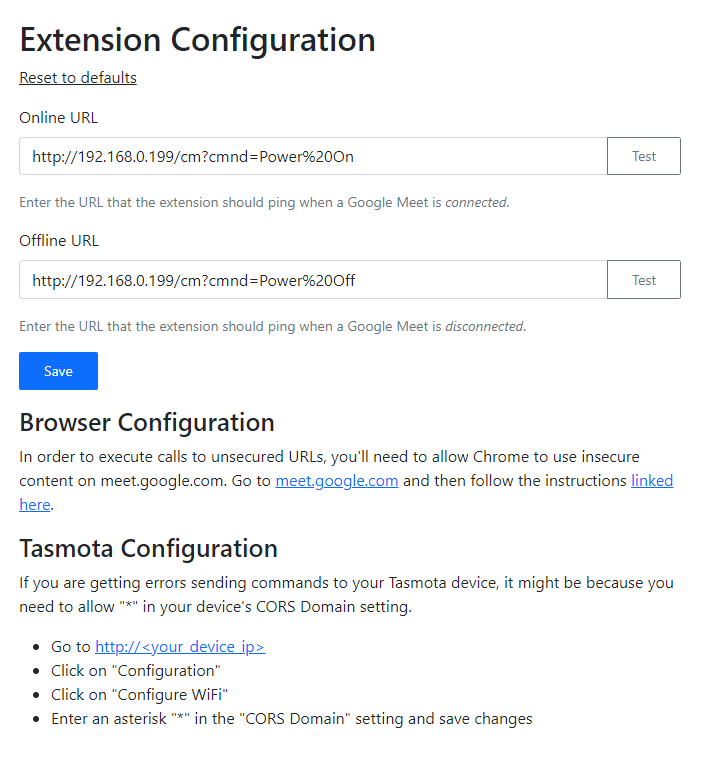
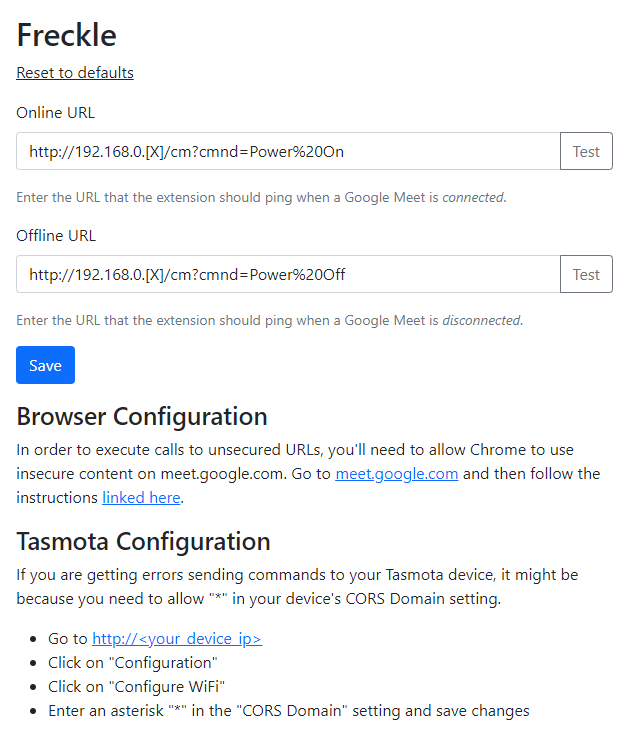
More thorough renaming complete, closes #7.

diff --git a/configuration/options.html b/configuration/options.html
@@ -3,15 +3,15 @@
   <head>
     <meta charset="utf-8">
     <meta name="viewport" content="width=device-width, initial-scale=1">
-    <link href="bootstrap.min.css" rel="stylesheet" integrity="sha384-eOJMYsd53ii+scO/bJGFsiCZc+5NDVN2yr8+0RDqr0Ql0h+rP48ckxlpbzKgwra6" crossorigin="anonymous">
+    <link href="bootstrap.min.css" rel="stylesheet">
     <link href="options.css" rel="stylesheet">
     <link rel="stylesheet" href="animate.min.css">
     <script src="font-awesome.js" crossorigin="anonymous"></script>
-    <title>Google Meet Tasmota Options</title>
+    <title>Freckle</title>
   </head>
   <body>
-    <h1>Extension Configuration</h1>
-    <p><a href="#" class="text-reset" id="reset-options">Reset to defaults</a></p>
+    <h1>Freckle</h1>
+    <p><a href="#" class="text-reset no-tab" id="reset-options">Reset to defaults</a></p>
     
     <!-- Options Form -->
     <div class="mb-3">
@@ -36,6 +36,7 @@
     </form>
     </div>
 
+    <!-- Configuration Notes -->
     <h3>Browser Configuration</h3>
     <p>In order to execute calls to unsecured URLs, you'll need to allow Chrome to use insecure content on meet.google.com. Go to <a href="https://meet.google.com">meet.google.com</a> and then follow the instructions <a href="https://stackoverflow.com/questions/18321032/how-to-get-chrome-to-allow-mixed-content">linked here</a>.</p>
 
@@ -61,7 +62,7 @@
     </div>
 
     <!-- Scripts -->
-    <script src="bootstrap.bundle.min.js" integrity="sha384-JEW9xMcG8R+pH31jmWH6WWP0WintQrMb4s7ZOdauHnUtxwoG2vI5DkLtS3qm9Ekf" crossorigin="anonymous"></script>
+    <script src="bootstrap.bundle.min.js"></script>
     <script src="options.js"></script>
   </body>
 </html>

diff --git a/configuration/options.js b/configuration/options.js
@@ -13,7 +13,7 @@
     for (var i = 0; i < links.length; i++) {
       (function () {
           var ln = links[i];
-          if(ln.href == "" || ln.href == "#") {
+          if(ln.classList.contains("no-tab")) {
             return;
           }
           var location = ln.href;

diff --git a/configuration/options.css b/configuration/options.css
@@ -3,15 +3,3 @@ body {
     width:100%;
     padding:20px;
 }
-
-.btn {
-    margin-right: 0.5rem !important
-}
-
-.btn {
-    font-size: 0.875rem;
-    line-height: 1;
-    font-weight: 400;
-    padding: .7rem 1.5rem;
-    border-radius: 0.1275rem
-}

diff --git a/README.md b/README.md
@@ -1,4 +1,6 @@
-# Tasmota Integration for Google Meet
+# Freckle
+
+Automatic Do-Not-Disturb integration for Google Meet with SMART Wifi bulbs and devices running Tasmota.
 
 ## About
 
@@ -6,8 +8,7 @@ This open source Google Chrome extension was created to automatically turn on a 
 
 [More About Tasmota](https://tasmota.github.io/docs/About/)
 
-The extension works by inspecting pages loaded on [meet.google.com](https://meet.google.com) to detect the presence of a "Leave call" button. When the presence of this button is detected, it fires an "online" event which is used to issue a request to an HTTP endpoint. When this element leaves the dom, it fires an "offline" event and hits another HTTP endpoint. These endpoints are fully configurable
-and could work with any device that has an HTTP API on your local network.
+The extension works by inspecting pages loaded on [meet.google.com](https://meet.google.com) to detect the presence of a "Leave call" button. When the presence of this button is detected, it fires an "online" event which is used to issue a request to an HTTP endpoint. When this element leaves the dom, it fires an "offline" event and hits another HTTP endpoint. These endpoints are fully configurable and could work with any device that has an HTTP API on your local network.
 
 ## Configuration Options
 
@@ -29,6 +30,14 @@ If you are getting errors sending commands to your Tasmota device, it might be b
 ## Thank You
 
 Thank you Tasmota for creating such a neat little project! Without you I could not have done this.
+
+## Why is it called Freckle?
+
+I made this project during the pandemic to deter my kids from barging into my office during meetings. My daughter is particularly chatty and very much enjoys knowing what I'm working on and who I'm talking to. She also has some adorable freckles. So with that in mind, I am naming this project after her.
+
+## Does it work with IFTTT?
+
+I would love that! I read some documentation and it was not at all clear to me how to publish a custom trigger into IFTTT. If you have any insight into this, please contact me.
 
 ## Contributing
 
